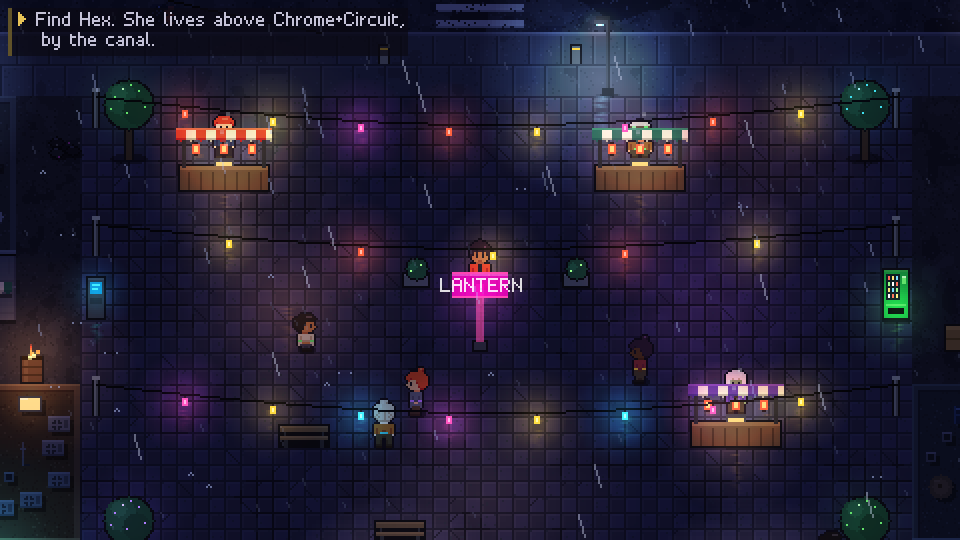
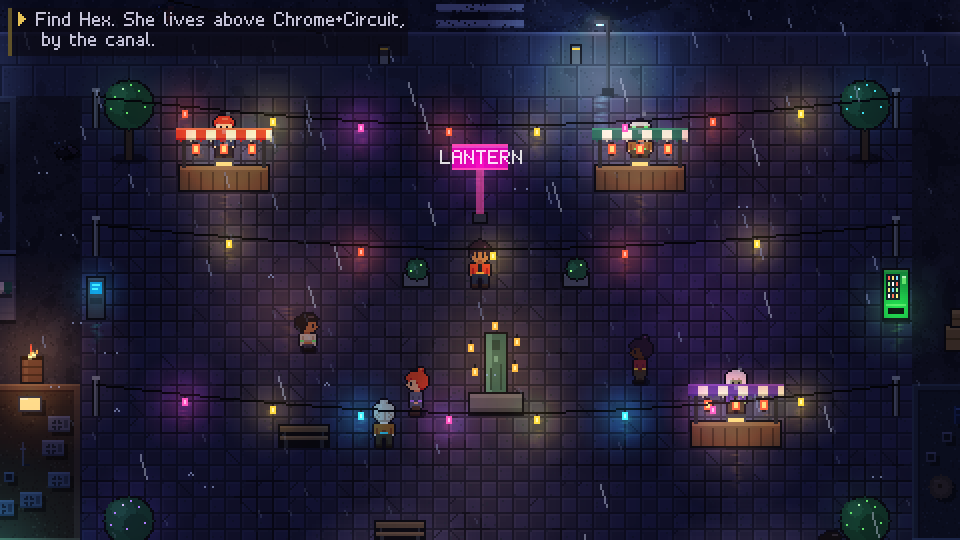
Round 5 (part 9): level design
- Lattice memo is a clue, not the answer: it names relay A only; the rest is read off the visible beams
- Two new secrets: a drowned locker room under the junction once it drains (Flood Charm), and the
  Rustfangs' tribute stash behind loose scrap marked with their own tag
- Lantern Row's plaza gets its anchor: the Drowned Saint memorial, hung with lanterns (and a Rook beat)
- The Annex freight lift asks before the point of no return; declining steps back
- Places page in the menu: where the crew has been, how to get there, and the current objective
- Playwright always builds a fresh preview for the prod smoke test (a reused server tested a stale bundle)

diff --git a/src/scenes/menu.ts b/src/scenes/menu.ts
@@ -25,7 +25,7 @@ const COMBO_ROWS = 6;
 /** Display names for enemy families. */
 const FAMILY_NAME: Record<string, string> = { human: 'Human', machine: 'Machine', beast: 'Beast', spirit: 'Spirit', ghoul: 'Ghoul' };
 
-type Mode = 'bestiary' | 'main' | 'pickMember' | 'items' | 'itemTarget' | 'techs' | 'techTarget' | 'equipSlots' | 'equipList' | 'status' | 'combos' | 'save' | 'saveConfirm';
+type Mode = 'places' | 'bestiary' | 'main' | 'pickMember' | 'items' | 'itemTarget' | 'techs' | 'techTarget' | 'equipSlots' | 'equipList' | 'status' | 'combos' | 'save' | 'saveConfirm';
 
 export type MenuResult = { kind: 'close' } | { kind: 'special'; item: string } | { kind: 'title' };
 
@@ -36,6 +36,7 @@ export class MenuScene extends Scene<MenuResult> {
   private mode: Mode = 'main';
   private main = new ListMenu<string>([], 9);
   private beasts = new ListMenu<string>([], 17);
+  private places = new ListMenu<string>([], 12);
   private sub = new ListMenu<string>([], 12);
   private comboScroll = 0;
   private memberIdx = 0;
@@ -56,6 +57,7 @@ export class MenuScene extends Scene<MenuResult> {
       { label: 'Status', value: 'status' },
       { label: 'Combos', value: 'combos' },
       { label: 'Bestiary', value: 'bestiary' },
+      { label: 'Places', value: 'places' },
       { label: 'Save', value: 'save', enabled: canSave },
       { label: 'Options', value: 'options' },
       { label: 'Close', value: 'close' },
@@ -104,6 +106,13 @@ export class MenuScene extends Scene<MenuResult> {
           this.beasts.index = 0;
           this.beasts.scroll = 0;
           this.mode = 'bestiary';
+        }
+        else if (v === 'places') {
+          this.places.setItems(
+            PLACES.filter((p) => state.flags[`visit:${p.id}`]).map((p) => ({ label: p.name, value: p.id, right: p.id === state.map ? 'here' : undefined })),
+          );
+          this.places.index = Math.max(0, this.places.items.findIndex((i) => i.value === state.map));
+          this.mode = 'places';
         }
         else if (v === 'save') {
           this.buildSaveList();
@@ -200,6 +209,11 @@ export class MenuScene extends Scene<MenuResult> {
       case 'bestiary': {
         const r = this.beasts.update(inp);
         if (r === 'cancel') this.mode = 'main';
+        break;
+      }
+      case 'places': {
+        const r = this.places.update(inp);
+        if (r === 'cancel' || r === 'confirm') this.mode = 'main';
         break;
       }
       case 'combos': {
@@ -413,6 +427,10 @@ export class MenuScene extends Scene<MenuResult> {
     }
     if (this.mode === 'bestiary') {
       this.renderBestiary(ctx);
+      return;
+    }
+    if (this.mode === 'places') {
+      this.renderPlaces(ctx);
       return;
     }
     // Main command column
@@ -652,6 +670,29 @@ export class MenuScene extends Scene<MenuResult> {
     drawParagraph(ctx, 'Notes are logged when a hit lands weak or is resisted, when a status fails to stick, or when Hex runs Analyze.', x + 10, H - 34, w - 20, { color: UI.dim, lineH: 10 });
   }
 
+  /** Places the crew has been: what each is for and how to get there, plus the objective. */
+  private renderPlaces(ctx: Ctx): void {
+    drawWindow(ctx, 8, 8, 150, H - 16, { title: 'PLACES', accent: UI.cyan });
+    this.places.render(ctx, 16, 24, 136, true, 'Nowhere yet.');
+    const x = 164, w = W - x - 8;
+    drawWindow(ctx, x, 8, w, H - 16, { plain: true });
+    const cur = PLACES.find((p) => p.id === this.places.current?.value);
+    if (cur) {
+      drawText(ctx, cur.name, x + 10, 18, { color: UI.cyan });
+      if (cur.id === state.map) drawText(ctx, 'You are here', x + w - 10, 18, { align: 'right', color: UI.amber });
+      drawParagraph(ctx, cur.about, x + 10, 34, w - 20, { color: '#d0cee4', lineH: 11 });
+      drawDivider(ctx, x + 6, 104, w - 12);
+      drawText(ctx, 'Getting there', x + 10, 112, { color: UI.dim });
+      drawParagraph(ctx, cur.route, x + 10, 124, w - 20, { color: '#b8bcd0', lineH: 11 });
+    }
+    const obj = state.flags.objective;
+    if (typeof obj === 'string' && obj) {
+      drawDivider(ctx, x + 6, H - 58, w - 12);
+      drawText(ctx, 'Objective', x + 10, H - 50, { color: UI.amber });
+      drawParagraph(ctx, obj, x + 10, H - 38, w - 20, { color: '#ffe7a0', lineH: 11 });
+    }
+  }
+
   private renderCombos(ctx: Ctx): void {
     drawWindow(ctx, 8, 8, W - 16, H - 16, { title: 'COMBO LOG', accent: UI.amber });
     drawText(ctx, 'Choose the right pair of abilities in the same round and they fuse.', 18, 22, { color: UI.dim });
@@ -671,6 +712,16 @@ export class MenuScene extends Scene<MenuResult> {
     });
   }
 }
+
+/** The places a player can have been, in the order the chapter reaches them. */
+const PLACES: { id: string; name: string; about: string; route: string }[] = [
+  { id: 'lantern_row', name: 'Lantern Row', about: 'Home turf. The Drowned Saint (Dutch’s bar), Doc Yun’s clinic, the shops, Sleeptube capsules, Mama Ono’s noodles. Rook’s flat and Hex’s den are on the south row.', route: 'The east end of the street opens onto the Sprawl.' },
+  { id: 'world', name: 'The Sprawl', about: 'The Lower Wards between the neighbourhoods: the Barrens to the east, Hollowmere Park, the canal. The arcology road north is sealed.', route: 'Lantern Row is west. The Rustyard is north-east up the highway spur. The Sinkline station is south, over the canal bridge.' },
+  { id: 'rustyard', name: 'The Rustyard', about: 'A scav camp in the Barrens, squeezed by the Rustfang gang. Old Mags trades the best salvage in the Wards.', route: 'From the Sprawl, follow the old highway spur north-east.' },
+  { id: 'sinkline_1', name: 'The Sinkline · B1', about: 'The flooded metro, drowned since ’61. The pump station is south down the maintenance corridor; the junction is east.', route: 'The station entrance is south of the canal bridge.' },
+  { id: 'annex', name: 'K-M Annex 7', about: 'A Kessler-Mori research annex, officially decommissioned. Officially.', route: 'A maintenance hatch at the bottom of the Sinkline’s junction.' },
+  { id: 'dock', name: 'Loading Dock 7', about: 'Where Mr. Pale said to bring the core.', route: 'The Annex freight lift comes up here.' },
+];
 
 function kindIcon(it: ItemDef): string {
   return it.kind === 'use' ? '+' : it.kind === 'key' ? '*' : it.kind === 'loot' ? '$' : '#';

diff --git a/src/data/maps/rustyard.ts b/src/data/maps/rustyard.ts
@@ -26,7 +26,7 @@ const g = new Grid(W, H, 'J')
   .rect(24, 2, 6, 4, 'r')
   .rect(9, 6, 3, 2, 'J')
   .rect(22, 6, 2, 2, 'J')
-  // Camp corners
+  // Camp corners (the west one hides the Rustfangs' tribute stash; see patches)
   .rect(1, 12, 3, 3, 'J')
   .rect(30, 12, 3, 4, 'J');
 
@@ -72,6 +72,8 @@ export const rustyard: MapDef = {
     { kind: 'dumpster', x: 23, y: 20, w: 2, color: '#5a3a2a' },
     // Rustfang territory: tags on the scrap walls facing the camp, banners staking the north yard.
     { kind: 'tag', x: 5, y: 12 },
+    // Their mark on the loose scrap in the camp's west corner: where they stash the tribute.
+    { kind: 'tag', x: 2, y: 14, color: '#ffb02e' },
     { kind: 'tag', x: 21, y: 12 },
     { kind: 'tag', x: 12, y: 24 },
     { kind: 'tag', x: 18, y: 25, color: '#ffb02e' },
@@ -82,7 +84,11 @@ export const rustyard: MapDef = {
     { kind: 'banner', x: 15, y: 3 },
     { kind: 'banner', x: 19, y: 3 },
   ],
+  patches: [
+    { when: (f) => !!f.tribute_stash, rects: [[1, 12, 3, 2, 'd'], [2, 14, 1, 1, 'd']] },
+  ],
   chests: [
+    { id: 'tribute', x: 1, y: 12, cred: 320, kind: 'crate', when: (f) => !!f.tribute_stash },
     { id: 'depot_case', x: 21, y: 6, item: 'med_case', kind: 'case' },
     { id: 'yard_cache', x: 2, y: 3, cred: 120, kind: 'crate' },
     { id: 'maze_cache', x: 31, y: 7, item: 'trauma_patch', qty: 2, kind: 'crate' },
@@ -128,6 +134,19 @@ export const rustyard: MapDef = {
     },
   ],
   events: [
+    {
+      id: 'loose_scrap', x: 2, y: 14, on: 'action', when: (f) => !f.tribute_stash,
+      run: async (s) => {
+        await s.narrate('This scrap is stacked loose, with a Rustfang tag sprayed across it. Someone moves it often.');
+        const pick = await s.ask(null, 'Pull it aside?', ['Pull it aside', 'Leave it'], { cancel: 1 });
+        if (pick !== 0) return;
+        s.sfx('bump');
+        s.set('tribute_stash');
+        s.refreshMap();
+        await s.narrate('Behind it, a hollow in the heap: a crate of cred, the Rustfangs’ tribute from the whole camp.');
+        await s.say('rook', 'Mags’ people paid that. We’ll see it gets back where it belongs.');
+      },
+    },
     { id: 'gate', x: 13, y: 20, w: 5, h: 1, on: 'touch', once: true, when: (f) => !f.rustyard_gate, run: rustyardGate },
     { id: 'depot', x: 12, y: 5, w: 10, h: 4, on: 'touch', when: (f) => !!f.rustyard_gate && !f.knuckles, run: knucklesFight },
     {

diff --git a/src/field/props.ts b/src/field/props.ts
@@ -383,6 +383,36 @@ export const PROPS: Partial<Record<PropKind, PropPainter>> = {
     });
   },
 
+  memorial(b, p) {
+    // A verdigris saint on a stone plinth, hooded and head bowed, ringed by hanging lanterns.
+    const w = (p.w ?? 2) * TS;
+    blockFoot(b, p, p.w ?? 2, 1);
+    const { x, y } = tall(b, { ...p, w: p.w ?? 2 }, w, 48, (c, e) => {
+      // Plinth
+      c.fillStyle = '#0f0e17'; c.fillRect(2, 36, w - 4, 12);
+      c.fillStyle = '#5a5a66'; c.fillRect(3, 37, w - 6, 10);
+      c.fillStyle = '#6e6e7a'; c.fillRect(3, 37, w - 6, 2);
+      c.fillStyle = '#44444e'; c.fillRect(3, 44, w - 6, 3);
+      // The saint: hood, bowed head, robe falling to the plinth, hands together.
+      const cx = w / 2;
+      c.fillStyle = '#0f0e17'; c.fillRect(cx - 6, 6, 12, 31);
+      c.fillStyle = '#3f6e62'; c.fillRect(cx - 5, 7, 10, 29);
+      c.fillStyle = '#5a9484'; c.fillRect(cx - 5, 7, 3, 29);
+      c.fillStyle = '#2a4a42'; c.fillRect(cx - 2, 10, 4, 5); // shadow under the hood
+      c.fillStyle = '#6aa898'; c.fillRect(cx - 1, 18, 2, 3); // hands
+      c.fillStyle = '#2a4a42'; c.fillRect(cx + 2, 22, 1, 13); c.fillRect(cx - 3, 24, 1, 11); // robe folds
+      // Lanterns on cords around it, glowing.
+      both(c, e, (k) => {
+        for (const [lx, ly] of [[3, 12], [w - 6, 9], [5, 24], [w - 7, 22], [cx - 1, 1]] as const) {
+          k.fillStyle = '#0f0e17'; k.fillRect(lx, ly - 2, 1, 2);
+          k.fillStyle = '#ffb040'; k.fillRect(lx - 1, ly, 3, 4);
+          k.fillStyle = '#ffe8a0'; k.fillRect(lx, ly + 1, 1, 2);
+        }
+      });
+    });
+    b.lights.push({ x: x + w / 2, y: y + 18, r: 70, color: '#ffb040', i: 0.7 });
+  },
+
   holo(b, p) {
     blockFoot(b, p);
     const col = p.color ?? '#3fe0f0';

diff --git a/src/data/maps/lantern_row.ts b/src/data/maps/lantern_row.ts
@@ -115,7 +115,9 @@ export const lanternRow: MapDef = {
     { kind: 'stall', x: 18, y: 18, w: 3, color: '#d8452e' },
     { kind: 'stall', x: 31, y: 18, w: 3, color: '#2f6a5a' },
     { kind: 'stall', x: 34, y: 26, w: 3, color: '#6a3fa0' },
-    { kind: 'holo', x: 27, y: 23, color: '#ff4fb0', text: 'LANTERN' },
+    { kind: 'holo', x: 27, y: 19, color: '#ff4fb0', text: 'LANTERN' },
+    // The plaza's heart: the Drowned Saint, and a lantern for everyone the flood took.
+    { kind: 'memorial', x: 27, y: 25, w: 2 },
     { kind: 'tree', x: 16, y: 17, color: '#62e06a' },
     { kind: 'tree', x: 39, y: 17, color: '#3fe0f0' },
     { kind: 'tree', x: 16, y: 30, color: '#b07cff' },
@@ -202,6 +204,16 @@ export const lanternRow: MapDef = {
     { id: 'kids', x: 26, y: 26, dir: 'up', look: randomLook(55), name: 'Kid', move: 'wander', radius: 2, talk: ['Mom says don’t talk to runners. ...Are you runners? Mom says runners disappear.'] },
   ],
   events: [
+    {
+      id: 'memorial', x: 27, y: 24, w: 2, h: 2, on: 'action',
+      run: async (s) => {
+        await s.narrate('THE DROWNED SAINT · IN MEMORY OF THE LOWER WARDS, ’61. Somebody has hung a lantern for every name. There is room for more.');
+        if (s.inParty('rook') && !s.flag('memorial_rook')) {
+          s.set('memorial_rook');
+          await s.say('rook', 'I hang one every year. Don’t ask me who for.');
+        }
+      },
+    },
     { id: 'first_fight', x: 15, y: 16, w: 26, h: 1, on: 'touch', once: true, when: (f) => !!f.intro && !f.first_fight, run: firstFight },
     {
       id: 'barricade', x: 2, y: 9, h: 5, on: 'touch', run: async (s) => {

diff --git a/src/scenes/field.ts b/src/scenes/field.ts
@@ -97,6 +97,7 @@ export class FieldScene extends Scene<void> {
     this.map = loadMap(mapId);
     this.def = this.map.def;
     state.map = mapId;
+    if (this.def.kind !== 'interior') state.flags[`visit:${mapId}`] = true;
     state.x = x;
     state.y = y;
     state.dir = dir;
@@ -320,17 +321,19 @@ export class FieldScene extends Scene<void> {
     if (w.when && !w.when(state.flags)) {
       if (w.blocked) {
         await this.runScript(w.blocked);
-        // Step back off the warp tile.
-        const back = opposite(this.leader.dir);
-        this.busy++;
-        try {
-          this.tryStep(back, WALK);
-          await this.waitIdle();
-        } finally {
-          this.busy--;
-        }
+        await this.stepBack();
       }
       return;
+    }
+    if (w.confirm) {
+      let go = false;
+      await this.runScript(async (s) => {
+        go = (await s.ask(null, w.confirm!, ['Go', 'Not yet'], { cancel: 1 })) === 0;
+      });
+      if (!go) {
+        await this.stepBack();
+        return;
+      }
     }
     this.pendingWarp = true;
     try {
@@ -338,6 +341,18 @@ export class FieldScene extends Scene<void> {
       await this.warp(w.to, w.tx, w.ty, w.dir ?? this.leader.dir);
     } finally {
       this.pendingWarp = false;
+    }
+  }
+
+  /** Step back off a warp tile the crew didn't take. */
+  private async stepBack(): Promise<void> {
+    const back = opposite(this.leader.dir);
+    this.busy++;
+    try {
+      this.tryStep(back, WALK);
+      await this.waitIdle();
+    } finally {
+      this.busy--;
     }
   }
 

diff --git a/src/data/maps/sinkline.ts b/src/data/maps/sinkline.ts
@@ -57,6 +57,9 @@ export const sinkline1: MapDef = {
         [42, 9, 3, 3, '~'],
         [30, 10, 1, 4, 't'],
         [44, 30, 1, 1, '+'],
+        // Only reachable once the water is gone: the old locker room under the junction.
+        [38, 31, 5, 3, '.'],
+        [40, 30, 1, 1, '.'],
       ],
     },
   ],
@@ -106,6 +109,7 @@ export const sinkline1: MapDef = {
     { kind: 'ladder', x: 44, y: 30 },
   ],
   chests: [
+    { id: 'drowned_locker', x: 41, y: 33, item: 'flood_charm', kind: 'locker', when: (f) => !!f.floodgate },
     { id: 'c1', x: 17, y: 2, item: 'medkit', qty: 2, kind: 'locker' },
     { id: 'c2', x: 27, y: 12, cred: 160, kind: 'crate' },
     { id: 'c3', x: 45, y: 5, item: 'neural_buffer', kind: 'case' },
@@ -176,6 +180,8 @@ export const sinkline1: MapDef = {
     { x: 26, y: 8, r: 55, color: '#ffd07a', i: 0.5, flicker: true },
     { x: 9, y: 20, r: 40, color: '#ff6a5a', i: 0.45, flicker: true },
     { x: 9, y: 29, r: 70, color: '#62e06a', i: 0.55 },
+    // A dim work light left on in the drowned locker room since ’61.
+    { x: 40, y: 32, r: 36, color: '#ffd07a', i: 0.45, flicker: true, when: (f) => !!f.floodgate },
     // Each intake gets a green work light, so the three read as one system across the map.
     { x: 2, y: 11, r: 34, color: '#62e06a', i: 0.5 },
     { x: 18, y: 20, r: 34, color: '#62e06a', i: 0.5 },

diff --git a/src/data/items.ts b/src/data/items.ts
@@ -102,6 +102,7 @@ export const ITEMS: Record<string, ItemDef> = {
   ghost_lens: I({ id: 'ghost_lens', name: 'Ghost Lens', kind: 'mod', slot: 'mod', who: ALL, price: 420, res: 6, mnd: 3, desc: 'A cracked monocle that sees a little too much. +6 RES, +3 MND.' }),
   adrenal_pump: I({ id: 'adrenal_pump', name: 'Adrenal Pump', kind: 'mod', slot: 'mod', who: ALL, price: 620, regen: 4, desc: 'Regenerate 4% HP each round.' }),
   spirit_fetish: I({ id: 'spirit_fetish', name: 'Spirit Fetish', kind: 'mod', slot: 'mod', who: ALL, price: 300, res: 7, immune: ['poison'], desc: '+7 RES. Immune to poison.' }),
+  flood_charm: I({ id: 'flood_charm', name: 'Flood Charm', kind: 'mod', slot: 'mod', who: ALL, price: 0, res: 5, immune: ['poison'], desc: 'A ’61 transit pass on a chain, kept by someone who didn’t get out. RES+5, immune to poison.' }),
   proto_chip: I({ id: 'proto_chip', name: 'Prototype Chip', kind: 'mod', slot: 'mod', who: ALL, price: 0, agi: 4, crit: 8, desc: 'Unreleased K-M reflex coprocessor, pocketed by a man who knew what was coming. AGI+4, crit+8%.' }),
   cyber_eye: I({ id: 'cyber_eye', name: 'Cyber Eye', kind: 'mod', slot: 'mod', who: ALL, price: 320, crit: 6, immune: ['blind'], desc: 'Flare-damped optics. Immune to blindness, +6% critical.' }),
 

diff --git a/src/data/maps/annex.ts b/src/data/maps/annex.ts
@@ -152,7 +152,7 @@ export const annex: MapDef = {
     { id: 'relay_a', x: 15, y: 21, on: 'action', run: relay('a') },
     {
       id: 'memo', x: 17, y: 4, w: 2, on: 'action',
-      run: annexLog('MEMO · LATTICE AUDIT', 'Relay A feeds emitters 1 and 2. Relay C feeds 2 and 3. Relay B is wired to all three. Cycling a relay flips every emitter it feeds. Keep this taped to the desk, Dmitri.'),
+      run: annexLog('MEMO · LATTICE AUDIT', 'Relay A feeds emitters 1 and 2. Cycling a relay flips every emitter it feeds. The refit rewired B and C and nobody updated this memo, so watch the beams when you cycle them. Keep this taped to the desk, Dmitri.'),
     },
     {
       id: 'requisition', x: 23, y: 18, h: 2, on: 'action',
@@ -190,6 +190,7 @@ export const annex: MapDef = {
     {
       x: 37, y: 32, w: 3, to: 'dock', tx: 9, ty: 4, dir: 'down',
       when: (f) => !!f.warden,
+      confirm: 'The freight lift only goes up. Anything left in the Annex stays here for good. Ride up?',
       blocked: async (s) => s.narrate('The freight lift. The call panel is dead until the facility releases its security lock.'),
     },
   ],

diff --git a/src/field/types.ts b/src/field/types.ts
@@ -53,7 +53,7 @@ export type PropKind =
   | 'holo' | 'poster' | 'counter' | 'shelf' | 'bed' | 'table' | 'stool' | 'couch' | 'plant' | 'screen'
   | 'capsule' | 'bar' | 'rack' | 'desk' | 'pod' | 'server' | 'tank' | 'fence' | 'sandbags' | 'tent' | 'pylon'
   | 'catwalk_rail' | 'train' | 'valve' | 'cryopod' | 'door_lab' | 'jukebox' | 'arcade' | 'sign_post' | 'bollard'
-  | 'window' | 'lampfloor' | 'sign_board' | 'tires' | 'body' | 'ladder' | 'tag' | 'banner' | 'crest';
+  | 'window' | 'lampfloor' | 'sign_board' | 'tires' | 'body' | 'ladder' | 'tag' | 'banner' | 'crest' | 'memorial';
 
 export interface PropDef {
   kind: PropKind;
@@ -116,6 +116,8 @@ export interface WarpDef {
   when?: (flags: Record<string, unknown>) => boolean;
   /** Script to run instead when `when` fails. */
   blocked?: ScriptFn;
+  /** Ask before going (a point of no return); declining steps back off the tile. */
+  confirm?: string;
 }
 
 export interface EventDef {

diff --git a/src/game/stages.ts b/src/game/stages.ts
@@ -22,9 +22,9 @@ function crew(members: Partial<Record<MemberId, Kit>>): void {
   }
 }
 
-const FLAGS_BEFORE_HEX = { intro: true, first_fight: true, met_dutch: true, objective: 'Find Hex. She lives above Chrome+Circuit, by the canal.' };
+const FLAGS_BEFORE_HEX = { intro: true, first_fight: true, met_dutch: true, 'visit:lantern_row': true, 'visit:world': true, objective: 'Find Hex. She lives above Chrome+Circuit, by the canal.' };
 const FLAGS_SINKLINE = {
-  ...FLAGS_BEFORE_HEX, met_hex: true, rustyard_gate: true, knuckles: true, coprocessor_given: true, hex_joined: true, sinkline_gate: true,
+  ...FLAGS_BEFORE_HEX, met_hex: true, rustyard_gate: true, knuckles: true, coprocessor_given: true, hex_joined: true, sinkline_gate: true, 'visit:rustyard': true, 'visit:sinkline_1': true,
   objective: 'Find a way across the flooded junction.',
 };
 

diff --git a/src/game/save.ts b/src/game/save.ts
@@ -122,6 +122,12 @@ function migrate(s: GameState): GameState {
   s.dir ??= 'down';
   s.steps ??= 0;
   s.flags ??= {};
+  // Saves from before the Places list: infer where the crew has been from the story so far.
+  const seen: [string, boolean][] = [
+    ['lantern_row', true], ['world', !!s.flags.met_dutch], ['rustyard', !!s.flags.rustyard_gate],
+    ['sinkline_1', !!s.flags.sinkline_gate], ['annex', !!s.flags.annex_key], ['dock', !!s.flags.betrayal],
+  ];
+  for (const [id, been] of seen) if (been) s.flags[`visit:${id}`] ??= true;
   // Now it has every field this version expects: say so, so a later migration starts from here.
   s.version = SAVE_VERSION;
   return s;

diff --git a/playwright.config.ts b/playwright.config.ts
@@ -15,7 +15,8 @@ export default defineConfig({
   },
   webServer: [
     { command: 'npm run dev', url: 'http://localhost:3007', reuseExistingServer: true, timeout: 60_000 },
-    // The shipped bundle, for e2e/prod.spec.ts.
-    { command: 'npm run build && npm run preview', url: 'http://localhost:3008', reuseExistingServer: true, timeout: 180_000 },
+    // The shipped bundle, for e2e/prod.spec.ts. Always built fresh: a reused preview server
+    // would silently test a stale bundle.
+    { command: 'npm run build && npm run preview', url: 'http://localhost:3008', reuseExistingServer: false, timeout: 180_000 },
   ],
 });
